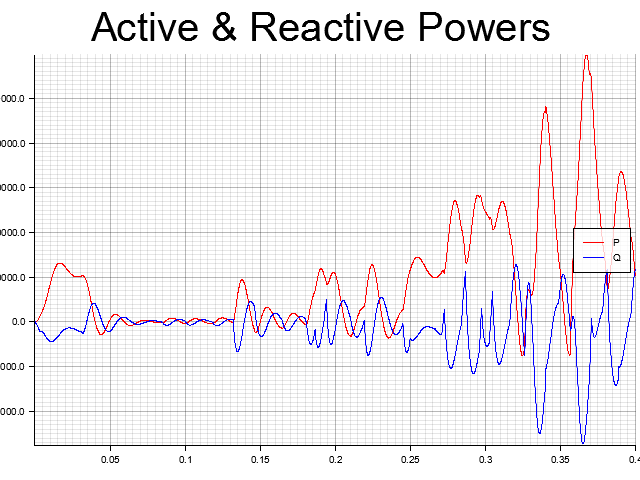
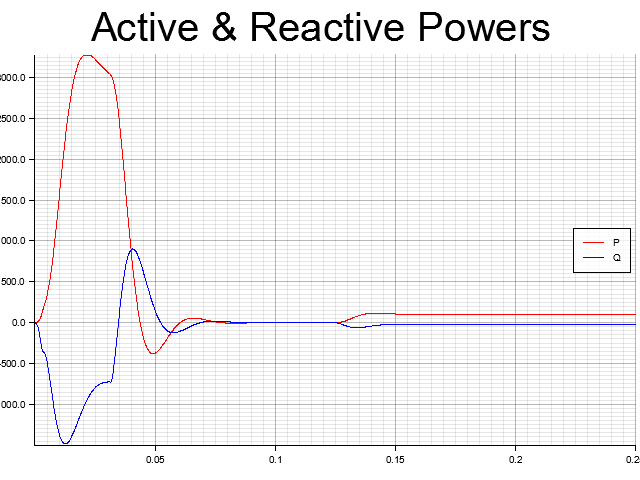
Add plots and change states to scientific units

Changed region(s): [[0.0, 0.0938, 1.0, 0.9688]]

diff --git a/src/main.rs b/src/main.rs
@@ -10,23 +10,26 @@ use unifi_gfm::sims::*;
 use unifi_gfm::calc;
 use unifi_gfm::refs::{alpha_beta_fr_polar, alpha_beta_fr_ab};
 use unifi_gfm::constants::PI;
-//use unifi_gfm::dvoc::test;
 
-const OUT_FILE_NAME: &'static str = "images/sample.png";
+const VOLTAGE_FILE_NAME: &'static str = "images/voltage.png";
+const THETA_FILE_NAME: &'static str = "images/thetas.png";
 const POWER_OUT_FILE_NAME: &'static str = "images/powers.png";
+const CURRENT_OUT_FILE_NAME: &'static str = "images/currents.png";
+const DELTA_OUT_FILE_NAME: &'static str = "images/deltas.png";
 fn main() -> Result<(), Box<dyn std::error::Error>> {
     /* 
     DEFINE sys PARAMETERS & CONSTRUCT OBJECTS
     */
-    let v_nom: f32 = 120.;
+    let v_nom: f32 = 80.;
     let f_nom: f32 = 60.;
     let w_nom: f32 = f_nom * 2. * PI;
     let s_rated: f32 = 500.;
     let dt: f32 = 1.0e-4_f32;
     let xi: f32 = 15.;
     let c: f32 = 0.2679;
-    let mut inv = dvoc_controller(v_nom, w_nom, s_rated, dt, xi, c);
-    inv.theta = dt * 0.5;
+    let mut inv = dvoc_controller(v_nom, w_nom, s_rated, xi, c);
+    inv.theta = -dt * 0.475 * w_nom;
+    inv.v = v_nom * 0.999965;
 
     let rf = 0.8;
     let lf = 1.5e-3;
@@ -34,14 +37,13 @@ fn main() -> Result<(), Box<dyn std::error::Error>> {
     let mut bus: ACVoltSrc = build_ac_volt_src(v_nom, w_nom, s_rated);
 
     // ODE solver settings
-    let rtol = 1.0e-5; let atol = 1.0e-5;
-    let ode_steps = 5.;
+    let rtol = 1.0e-4; let atol = 1.0e-4;
+    let ode_steps = 20.;
     
     /* 
     RUNNING DYNAMICAL SIMULATION
     */
-    //const n_steps: u32 = 10000;  // TODO: Change this to UPPERCASE or make it a variable
-    let t_end = 0.4;  // Simulate time in seconds
+    let t_end = 0.25;  // Simulate time in seconds
     let n_steps: u32 = (t_end / dt).ceil() as u32;
     let steps: Vec<u32> = (0..n_steps+1).collect();
     let mut t: f32;
@@ -50,8 +52,11 @@ fn main() -> Result<(), Box<dyn std::error::Error>> {
     let mut theta_values: Vec<(f32, f32)> = vec![(0., 0.); (n_steps+1) as usize];
     let mut vg_values: Vec<(f32, f32)> = vec![(0., 0.); (n_steps+1) as usize];
     let mut thetag_values: Vec<(f32, f32)> = vec![(0., 0.); (n_steps+1) as usize];
+    let mut delta_values: Vec<(f32, f32)> = vec![(0., 0.); (n_steps+1) as usize];
     let mut p_values: Vec<(f32, f32)> = vec![(0., 0.); (n_steps+1) as usize];
     let mut q_values: Vec<(f32, f32)> = vec![(0., 0.); (n_steps+1) as usize];
+    let mut ia_values: Vec<(f32, f32)> = vec![(0., 0.); (n_steps+1) as usize];
+    let mut ib_values: Vec<(f32, f32)> = vec![(0., 0.); (n_steps+1) as usize];
     'sim: for step in steps {  // TODO: Debug this simulation. Power / Current values seem wonky. Something to do with the per unitization of theta
         t = step as f32 * dt;
         if t > (t_end / 2.) {
@@ -63,10 +68,19 @@ fn main() -> Result<(), Box<dyn std::error::Error>> {
         theta_values[step as usize] = (t, inv.theta);
         vg_values[step as usize] = (t, bus.v);
         thetag_values[step as usize] = (t, bus.theta);
+        ia_values[step as usize] = (t, line.i_alpha);
+        ib_values[step as usize] = (t, line.i_beta);
+        let mut delta = inv.theta - bus.theta;
+        if delta > PI {
+            delta = -2.*PI + delta;
+        } else if delta < -PI {
+            delta = 2.*PI + delta;
+        }
+        delta_values[step as usize] = (t, delta);
 
-        inv.step((line.i_alpha, line.i_beta));
+        inv.step(dt, [line.i_alpha, line.i_beta]);
         
-        let v = alpha_beta_fr_polar(inv.kv * inv.v, (inv.w_nom * inv.theta) % (2.*PI));
+        let v = alpha_beta_fr_polar(inv.v, inv.theta);
         let i = alpha_beta_fr_ab(line.i_alpha, line.i_beta);
         (p, q) = calc::calc_power(v, i);
         p_values[step as usize] = (t, p);
@@ -76,7 +90,7 @@ fn main() -> Result<(), Box<dyn std::error::Error>> {
         // Create a new system object and copy over states from existing objects
         let mut ode_line: RLFilter = build_rl_line(w_nom, s_rated, rf, lf);
         let mut ode_bus: ACVoltSrc = build_ac_volt_src(v_nom, w_nom, s_rated);
-        let mut ode_inv = dvoc_controller(v_nom, w_nom, s_rated, dt, xi, c);
+        let mut ode_inv = dvoc_controller(v_nom, w_nom, s_rated, xi, c);
         ode_line.i_alpha = line.i_alpha; ode_line.i_beta = line.i_beta;
         ode_bus.v = bus.v; ode_bus.theta = bus.theta;
         ode_inv.v = inv.v; ode_inv.theta = inv.theta; ode_inv.p_ref = inv.p_ref;
@@ -95,7 +109,7 @@ fn main() -> Result<(), Box<dyn std::error::Error>> {
                 // let ts = stepper.x_out();
                 let ys = stepper.y_out();
                 let k = ys.len() - 1;
-                bus.v = ys[k][(0, 0)] as f32; bus.theta = ys[k][(1, 0)] as f32;
+                bus.v = ys[k][(0, 0)] as f32; bus.theta = ys[k][(1, 0)] as f32 % (2.*PI);
                 line.i_alpha = ys[k][(2, 0)] as f32; line.i_beta = ys[k][(3, 0)] as f32
             },
             Err(e) => {
@@ -113,9 +127,9 @@ fn main() -> Result<(), Box<dyn std::error::Error>> {
         */
 
     }
-    println!("v: {}, theta: {}", inv.v * inv.v_nom, (inv.w_nom * inv.theta) % (2.*PI));
+    println!("v: {}, theta: {}", inv.v, inv.theta);
     println!("ia: {}, ib: {}", line.i_alpha, line.i_beta);
-    println!("vg: {}, thetag: {}", bus.v * bus.v_nom, (bus.w_nom * bus.theta) % (2.*PI));
+    println!("vg: {}, thetag: {}", bus.v, bus.theta);
 
     /* 
     PLOTTING THE RESULTS
@@ -123,18 +137,28 @@ fn main() -> Result<(), Box<dyn std::error::Error>> {
 
     let v_values_ = v_values.to_vec();
     let theta_values_ = theta_values.to_vec();
+    let vg_values_ = vg_values.to_vec();
+    let thetag_values_ = thetag_values.to_vec();
+    let delta_values_ = delta_values.to_vec();
     let p_values_ = p_values.to_vec();
     let q_values_ = q_values.to_vec();
+    let ia_values_ = ia_values.to_vec();
+    let ib_values_ = ib_values.to_vec();
 
-    // Plot the data
-    let root = BitMapBackend::new(OUT_FILE_NAME, (640, 480)).into_drawing_area();
+    /* Plot voltage magnitude data */
+    let (_,mut vs): (Vec<f32>, Vec<f32>) = v_values.into_iter().unzip();
+    let (_,mut vgs): (Vec<_>, Vec<_>) = vg_values.into_iter().unzip();
+    vs.append(&mut vgs);
+    let min_v: f32 = vs.iter().fold(f32::INFINITY, |a, &b| a.min(b));
+    let max_v: f32 = vs.iter().fold(0.0f32, |a, &b| a.max(b));
+    let root = BitMapBackend::new(VOLTAGE_FILE_NAME, (640, 480)).into_drawing_area();
     root.fill(&WHITE)?;
     let mut chart = ChartBuilder::on(&root)
-        .caption("Voltage & Angle", ("sans-serif", 50).into_font())
+        .caption("Voltage Magnitudes", ("sans-serif", 50).into_font())
         .margin(5 as u32)
         .x_label_area_size(30 as u32)
         .y_label_area_size(30 as u32)
-        .build_cartesian_2d(0.0f32..t_end, -0.1f32..1.5f32)?;
+        .build_cartesian_2d(0.0f32..t_end, min_v..max_v)?;
 
     chart.configure_mesh().draw()?;
 
@@ -143,32 +167,58 @@ fn main() -> Result<(), Box<dyn std::error::Error>> {
             v_values_,
             &RED,
         ))?
-        .label("Voltage")
+        .label("Inv Voltage")
         .legend(|(x, y)| PathElement::new(vec![(x, y), (x + 20, y)], &RED));
+    
+    chart
+        .draw_series(LineSeries::new(
+            vg_values_,
+            &GREEN,
+        ))?
+        .label("Bus Voltage")
+        .legend(|(x, y)| PathElement::new(vec![(x, y), (x + 20, y)], &GREEN));
+
+    chart
+        .configure_series_labels()
+        .background_style(&WHITE.mix(0.8))
+        .border_style(&BLACK)
+        .draw()?;
+
+    root.present()?;
+
+    /* Plot voltage angle data */
+    let (_,mut ths): (Vec<f32>, Vec<f32>) = theta_values.into_iter().unzip();
+    let (_,mut thgs): (Vec<_>, Vec<_>) = thetag_values.into_iter().unzip();
+    ths.append(&mut thgs);
+    let min_th: f32 = ths.iter().fold(f32::INFINITY, |a, &b| a.min(b));
+    let max_th: f32 = ths.iter().fold(0.0f32, |a, &b| a.max(b));
+    let root = BitMapBackend::new(THETA_FILE_NAME, (640, 480)).into_drawing_area();
+    root.fill(&WHITE)?;
+    let mut chart = ChartBuilder::on(&root)
+        .caption("Voltage Angles", ("sans-serif", 50).into_font())
+        .margin(5 as u32)
+        .x_label_area_size(30 as u32)
+        .y_label_area_size(30 as u32)
+        .build_cartesian_2d(0.0f32..t_end, min_th..max_th)?;
+
+    chart.configure_mesh().draw()?;
 
     chart
         .draw_series(LineSeries::new(
             theta_values_,
             &BLUE,
         ))?
-        .label("Angle")
+        .label("Inv Theta")
         .legend(|(x, y)| PathElement::new(vec![(x, y), (x + 20, y)], &BLUE));
-    
-    chart
-        .draw_series(LineSeries::new(
-            vg_values,
-            &GREEN,
-        ))?
-        .label("Grid Voltage")
-        .legend(|(x, y)| PathElement::new(vec![(x, y), (x + 20, y)], &GREEN));
 
     chart
         .draw_series(LineSeries::new(
-            thetag_values,
+            thetag_values_,
             &BLACK,
         ))?
-        .label("Grid Angle")
+        .label("Bus Theta")
         .legend(|(x, y)| PathElement::new(vec![(x, y), (x + 20, y)], &BLACK));
+
     chart
         .configure_series_labels()
         .background_style(&WHITE.mix(0.8))
@@ -220,6 +270,81 @@ fn main() -> Result<(), Box<dyn std::error::Error>> {
 
     root.present()?;
 
+    /* Plot line current data */
+    // Find the maximum and minimum values of ia and ib for plotting ylims
+    let (_,mut ias): (Vec<f32>, Vec<f32>) = ia_values.into_iter().unzip();
+    let (_,mut ibs): (Vec<_>, Vec<_>) = ib_values.into_iter().unzip();
+    ias.append(&mut ibs);
+    let min_i: f32 = ias.iter().fold(0.0f32, |a, &b| a.min(b));
+    let max_i: f32 = ias.iter().fold(0.0f32, |a, &b| a.max(b));
+    let root = BitMapBackend::new(CURRENT_OUT_FILE_NAME, (640, 480)).into_drawing_area();
+    root.fill(&WHITE)?;
+    let mut chart = ChartBuilder::on(&root)
+        .caption("Line Currents", ("sans-serif", 50).into_font())
+        .margin(5 as u32)
+        .x_label_area_size(30 as u32)
+        .y_label_area_size(30 as u32)
+        .build_cartesian_2d(0.0f32..t_end, (min_i-0.1)..(max_i+0.1))?;
+
+    chart.configure_mesh().draw()?;
+
+    chart
+        .draw_series(LineSeries::new(
+            ia_values_,
+            &RED,
+        ))?
+        .label("ia")
+        .legend(|(x, y)| PathElement::new(vec![(x, y), (x + 20, y)], &RED));
+
+    chart
+        .draw_series(LineSeries::new(
+            ib_values_,
+            &BLUE,
+        ))?
+        .label("ib")
+        .legend(|(x, y)| PathElement::new(vec![(x, y), (x + 20, y)], &BLUE));
+
+    chart
+        .configure_series_labels()
+        .background_style(&WHITE.mix(0.8))
+        .border_style(&BLACK)
+        .draw()?;
+
+    root.present()?;
+
+
+    /* Plot voltage angle difference data */
+    // Find the maximum and minimum values of delta for plotting ylims
+    let (_, deltas): (Vec<f32>, Vec<f32>) = delta_values.into_iter().unzip();
+    let min_d: f32 = deltas.iter().fold(0.0f32, |a, &b| a.min(b));
+    let max_d: f32 = deltas.iter().fold(0.0f32, |a, &b| a.max(b));
+    let root = BitMapBackend::new(DELTA_OUT_FILE_NAME, (640, 480)).into_drawing_area();
+    root.fill(&WHITE)?;
+    let mut chart = ChartBuilder::on(&root)
+        .caption("Voltage Angle Difference", ("sans-serif", 50).into_font())
+        .margin(5 as u32)
+        .x_label_area_size(30 as u32)
+        .y_label_area_size(30 as u32)
+        .build_cartesian_2d(0.0f32..t_end, (min_d)..(max_d))?;
+
+    chart.configure_mesh().draw()?;
+
+    chart
+        .draw_series(LineSeries::new(
+            delta_values_,
+            &RED,
+        ))?
+        .label("delta")
+        .legend(|(x, y)| PathElement::new(vec![(x, y), (x + 20, y)], &RED));
+
+    chart
+        .configure_series_labels()
+        .background_style(&WHITE.mix(0.8))
+        .border_style(&BLACK)
+        .draw()?;
+
+    root.present()?;
+
     Ok(())
 }
 
@@ -237,10 +362,10 @@ impl ode_solvers::System<State> for DigitalInverterSMIB {
     fn system(&self, _t: f64, y: &State, dy: &mut State) {
         // y: [vg, thetag, ia, ib]
         let (dvg_dt, dthetag_dt) = self.bus.dynamics([y[0], y[1]], []);
-        let (di_alpha_dt, di_beta_dt) = self.line.dynamics([y[2], y[3]], [self.inv.kv * self.inv.v, (self.inv.w_nom * self.inv.theta) % (2.*PI), 
-                                                                                         self.bus.v_nom * y[0], (self.bus.w_nom * y[1]) % (2.*PI)]);
-        dy[0] = 0.; // dvg_dt;
-        dy[1] = 1.; // dthetag_dt;
+        let (di_alpha_dt, di_beta_dt) = self.line.dynamics([y[2], y[3]], [self.inv.v, self.inv.theta, 
+                                                                                         y[0], y[1]]);
+        dy[0] = dvg_dt;
+        dy[1] = dthetag_dt;
         dy[2] = di_alpha_dt;
         dy[3] = di_beta_dt;
     }
